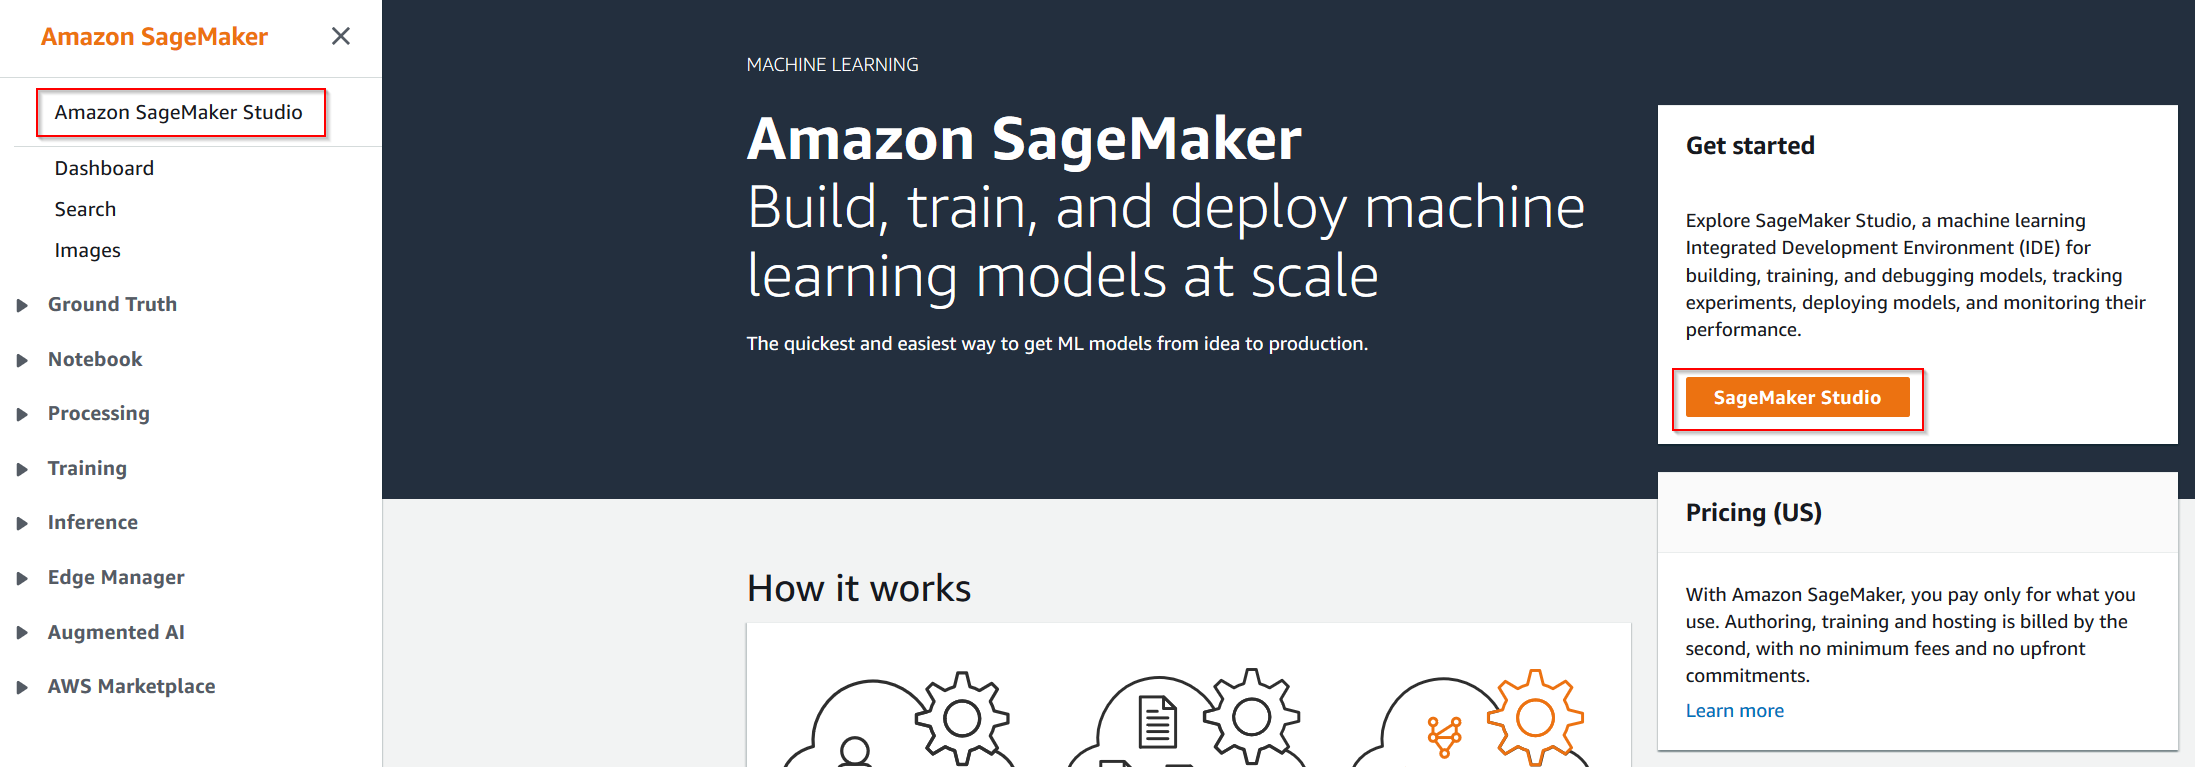
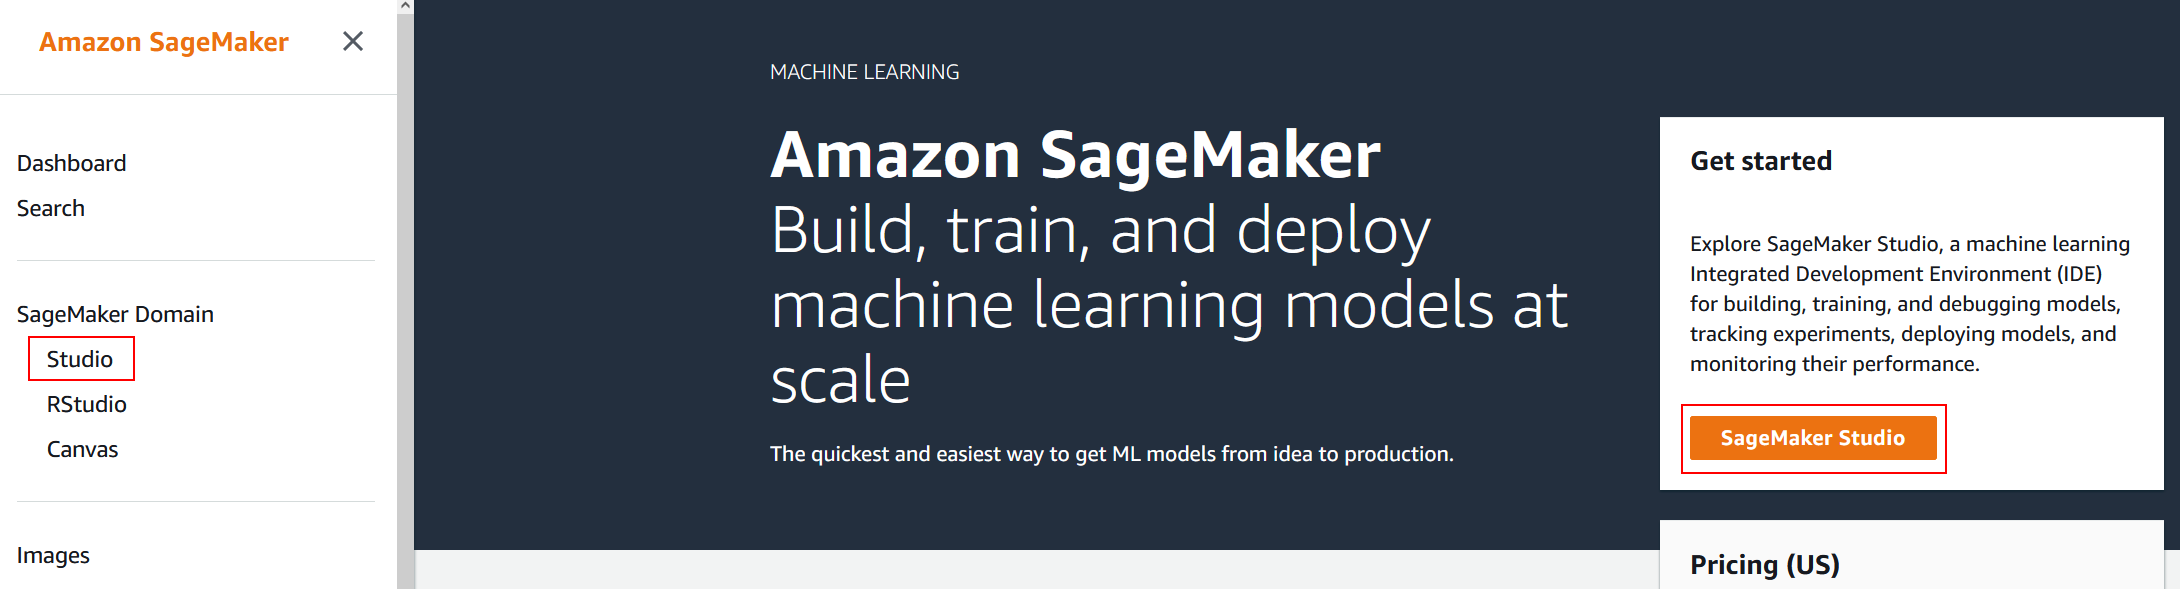
Updated instructions in add_role.md

diff --git a/docs/add_role.md b/docs/add_role.md
@@ -3,24 +3,23 @@
 Before starting with the workshop, we need to add permissions to the IAM role used by SageMaker Studio, so that we can call Rekognition
 from our notebook.
 
-Go to the Amazon SageMaker console. Choose either the **Amazon SageMaker Studio** link on the left navigation pane, or
-the **SageMaker Studio** button on the right side of the screen. 
+Go to the Amazon SageMaker console. Choose either the **Studio** link on the left navigation pane, or the **SageMaker Studio** button on
+the right side of the screen. 
 
 <p align="center">
   <img src="../images/sagemaker_1.png" alt="Mitotic figures" width="800px"/>
 </p>
 
-Select **sagemakeruser** from the list of Studio usernames. 
+Select your user from the list of Studio user names.
 
 <p align="center">
   <img src="../images/sagemaker_2.png" alt="Mitotic figures" width="800px"/>
 </p>
 
-Copy the Amazon Resource Name (ARN) of the role from the **User Details** panel, under **Execution role**. We will
-only need the name of the role, which is the string after the forward slash.
+Copy the Amazon Resource Name (ARN) of the role from the **User Details** panel, under **Execution role**. We only need the name of the role,
+which is the string after the forward slash.
 
-In this case, it is _mod-6297809195fe4845-SageMakerExecutionRole-W7N5C7EVBIR0_. Your role will be named slightly
-differently.
+In this case, it is _mod-6297809195fe4845-SageMakerExecutionRole-W7N5C7EVBIR0_. The name of your role may be different.
 
 <p align="center">
   <img src="../images/sagemaker_3.png" alt="Mitotic figures" width="800px"/>
